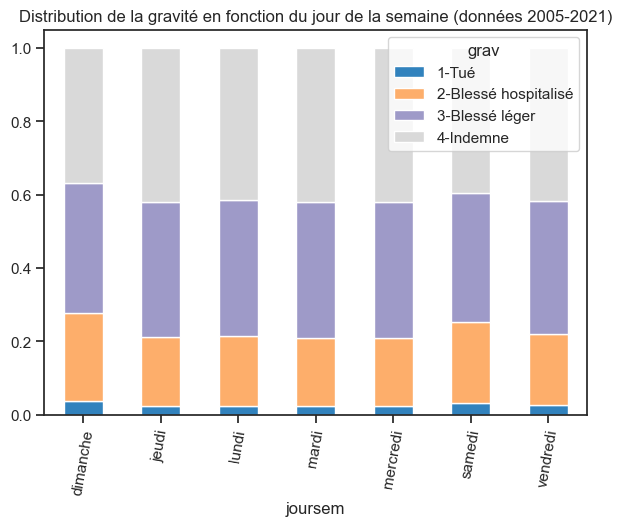
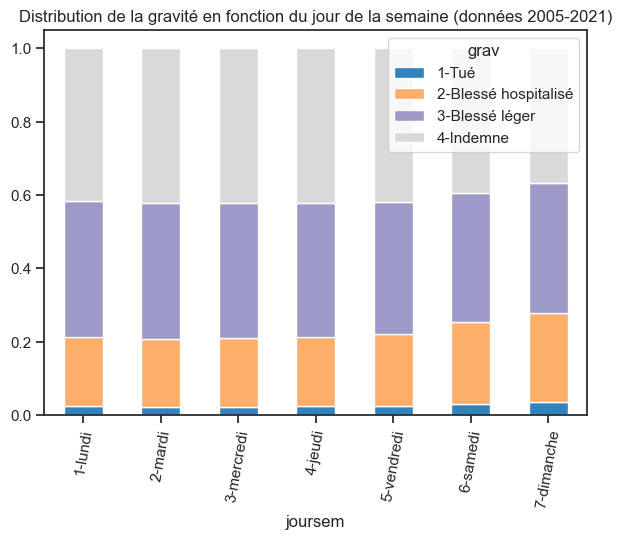
Update data viz grav-dep

diff --git a/pages/03-Data Viz.py b/pages/03-Data Viz.py
@@ -5,11 +5,10 @@ comp.sidebar_info()
 
 comp.header("Data Viz")
 
-tab1, tab2, tab3 = st.tabs(["Données manquantes", "Relations gravité-variables", "..."])
+tab1, tab2, tab3 = st.tabs(["Données manquantes", "Relations gravité-variables", "Distributions  conditionnelles"])
 
 with tab1:
     st.markdown("##### Heatmap des données manquantes")
-    # st.markdown("##### Avant traitement :")
     chk_proc = st.checkbox("Suppression des variables avec plus de 8% de données manquantes")
     if chk_proc:
         st.image("./pics/null_in_data_aft_proc.jpg", width=1200)
@@ -21,19 +20,9 @@ with tab2:
     st.image("./pics/corr-vars-heatmap.jpg", width=600)
 
 with tab3:
-    import pandas as pd
-    import numpy as np
-    import time
-    from pages.libs import utils
-
-    comp.subheader("Entités")
-
-    cols = st.columns(8)
-    file_type = cols[0].selectbox(label="Type de fichier", options=('usagers', 'accidents', 'lieux', 'véhicules'))
-    year_sel  = cols[1].selectbox(label="Année", options=range(2005, 2022))
-    print(file_type)
-    print(year_sel)
-    with st.spinner('Wait for it...'):
-        data_dic = utils.get_DataFrame(file_type, year_sel)
-    df = data_dic[year_sel]
-    st.dataframe(df)
+    cols = st.columns(6)
+    var_sel = cols[0].selectbox(label="Variable", options=('jour de la semaine', 'département'))
+    if var_sel == 'jour de la semaine':
+        st.image("./pics/grav-joursem.png")
+    else:
+        st.image("./pics/grav-dep.png")
